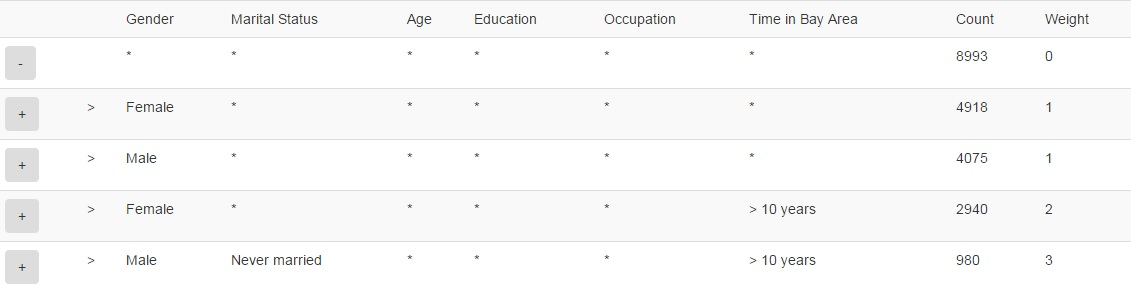
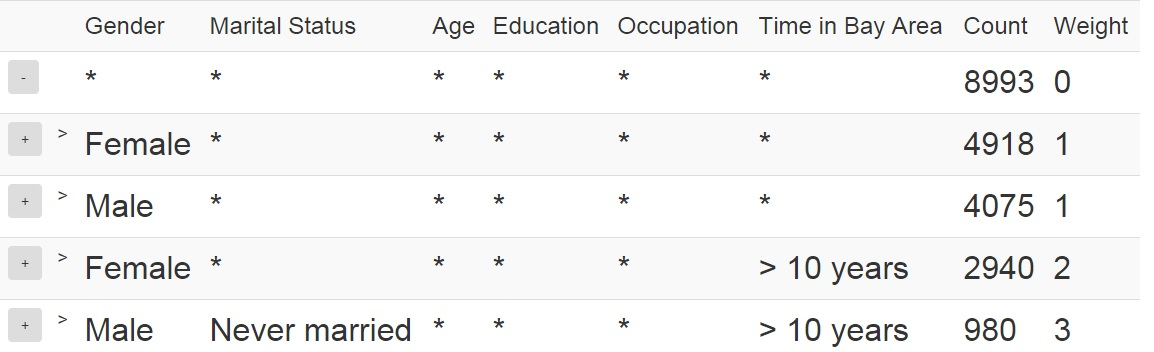
Changed image font size, and some other changes

diff --git a/TableSummarization/Paper/sampling.tex b/TableSummarization/Paper/sampling.tex
@@ -3,7 +3,7 @@
 \subsection{Dynamic Sampling for Large Tables}\label{sec:sampling}
 
 \papertext{
-BRS makes multiple passes over the table in order to determine the best set of rules to display. This can be really slow when the table is too large to fit in main memory. We can reduce the response time of smart drill down by running BRS on a sample of the table instead, trading off accuracy of our rules for performance. If we had obtained a sample $s$ by selecting each table tuple with probability $p$, and run BRS on $s$, then we multiply the count of each rule found by BRS, by $\frac{1}{p}$ to estimate its count over the full table.
+BRS makes multiple passes over the table in order to determine the best set of rules to display. This can be slow when the table is too large to fit in main memory. We can reduce the response time of smart drill down by running BRS on a sample of the table instead, trading off accuracy of our rules for performance. If we had obtained a sample $s$ by selecting each table tuple with probability $p$, and run BRS on $s$, then we multiply the count of each rule found by BRS, by $\frac{1}{p}$ to estimate its count over the full table.
 
 In Section~\ref{sec:sampling_algorithms}, we describe the problem of optimally allocating memory to different samples. We show that the problem is NP-Hard, and mention an approximate solution using an additional assumption. In Section~\ref{sec:sample-handler}, we describe a component of the system called the {\em SampleHandler}, which is responsible for creating and maintaining multiple samples of different parts of the table in memory, and creating temporary samples for BRS to process. Detailed descriptions of the sampling problem and the SampleHandler are in the technical report. The technical report also contains some additional optimizations, and ways to set the minimum sample size.
 
@@ -11,7 +11,7 @@ In Section~\ref{sec:sampling_algorithms}, we describe the problem of optimally a
 We are given a memory capacity $M$, and a minimum sample size $minSS$, both specified by the user. $minSS$ is the minimum number of tuples on which we are allowed to run BRS, without accessing the hard disk. A higher value of $minSS$ increases both accuracy and computation cost of our system.
 
 At any point, we have a tree $U$ of rules displayed to the user. Initially, the tree consists of a single node corresponding to the empty rule. When the user drills down on a rule $r$, the sub-rules of $r$ obtained by running BRS are added as children of node $r$. 
-Our system maintains multiple samples in memory, with upto one sample per rule in $U$. Specifically, for each rule $r \in U$, we choose an integer $n_r$, and create a sample $s_r$ consisting of $n_r$ uniformly randomly chosen tuples covered by $r$ from the table. Because of the memory constraint, we must have $\sum_{r\in U} n_r \leq M$. 
+Our system maintains multiple samples in memory, with one sample per rule in $U$. Specifically, for each rule $r \in U$, we choose an integer $n_r$, and create a sample $s_r$ consisting of $n_r$ uniformly randomly chosen tuples covered by $r$ from the table. Because of the memory constraint, we must have $\sum_{r\in U} n_r \leq M$. 
 
 When a user attempts to drill down on $r$, the SampleHandler takes all $n_r$ tuples from $s_r$, and also tuples covered by $r$ from samples $s_{r'}$ for all $r' \in U$ that are sub-rules of $r$. If the total number of such tuples is $\geq minSS$, then we run BRS on that set of tuples to perform the drill down. If not, then we need to access the hard disk to obtain more tuples covered by $r$.
 
@@ -229,7 +229,7 @@ Whenever the user drills down on a rule $r$, our system calls the SampleHandler 
 
 \item \textbf{Combine:} If \textbf{Find} doesn't work i.e., if the SampleHandler cannot find an existing sample with filter $r$ and $\geq minSS$ tuples, then it looks at all existing samples $s^{\prime}$ such that $f_{s^{\prime}}$ is a sub-rule of $r$. If the set of all tuples that are covered by $r$, from all such $T_{s^{\prime}}$'s combined, exceeds $minSS$ in size, then we can simply treat that set as our sample for rule $r$.
 
-\item \textbf{Create:} If \textbf{Combine} doesn't work either, then the SampleHandler needs to create a new sample $s$ with $f_s = r$ by making a pass through the table.  Since accessing the hard disk and making a pass through the entire table is a bottleneck, it also creates samples for rules other than $r$ and augments existing samples in the same pass. It first uses the algorithm from Section~\ref{sec:sampling_algorithms} to determine how many tuples to sample for each rule, and uses reservoir sampling~\cite{maibdr1983,Vitter:1985:RSR:3147.3165} to create a uniformly random sample of a given size for each rule.
+\item \textbf{Create:} If \textbf{Combine} doesn't work either, then the SampleHandler needs to create a new sample $s$ with $f_s = r$ by making a pass through the table.  Since accessing the hard disk is expensive, it also creates samples for rules other than $r$ and augments existing samples in the same pass. It first deletes all existing samples, then uses the algorithm from Section~\ref{sec:sampling_algorithms} to determine how many tuples to sample for each rule, and uses reservoir sampling~\cite{maibdr1983,Vitter:1985:RSR:3147.3165} to create a uniformly random sample of a given size for each rule.
 \squishend
 }
 

diff --git a/TableSummarization/Paper/exp.tex b/TableSummarization/Paper/exp.tex
@@ -16,6 +16,13 @@ We now describe our experiments on this system with real datasets.
 \begin{figure}
 \vspace{-5pt}
 \centering
+\includegraphics[width=90mm]{graphs/screenshots6col/age_drilldown.jpg}
+\caption{A regular drill down on Age\label{fig:drilldownexample}}
+\end{figure}
+
+\begin{figure}
+\vspace{-5pt}
+\centering
 \includegraphics[width=90mm]{graphs/screenshots6col/empty_expansion.jpg}
 \vspace{-10pt}
 \caption{Star expansion on `Education' Column \label{fig:uiexamplestar}}
@@ -99,15 +106,13 @@ Unless otherwise specified, in all our experiments, we restrict the tables to th
 We set the $k$ (number of rules) parameter to $4$, and $m_w$ to $5$ for the Size weighting and $20$ for the Bits weighting function (see Section~\ref{sec:weighting}). Memory capacity $M$ for the SampleHandler is set to $50000$ tuples, and $minSS$ to $5000$.
 
 \subsection{Qualitative Study}
-We first perform a qualitative study of smart drill down. We observe the effects of various user interface operations on the Marketing Dataset (the results are similar on the Census dataset), and then try out a few different weight functions to study their effects.
+We first perform a qualitative study of smart drill down. We observe the effects of various user interface operations on the Marketing Dataset (the results are similar on the Census dataset), and then try out different weight functions to study their effects.
 \subsubsection{User interface testing}
 We now present the rule-based summaries displayed as a result of a few different user actions.
 
 To begin with, the user sees an empty rule with the total number of tuples as the count. Suppose the user expands the rule. Then the user will see Figure~\ref{fig:uiexample1}. The first two new rules simply tell us that the table has $4918$ female and $4075$ male tuples. The next two rules also slightly more detailed, saying that there are $2940$ females who have been in the Bay Area for $> 10$ years, and $980$ males who have never been married and been in the Bay Area for $> 10$ years. Note that the latter two rules give very specific information which would require up to $3$ user clicks to find using traditional drill down, whereas smart drill down displays that information to the user with a single click. 
 
-Now suppose the user decides to further explore the table, by looking at education related information of females in the dataset. Say the user clicks on the $\star$ in the `Education' column of the second rule. This opens up Figure~\ref{fig:uiexamplestar} that shows the number of females with different levels of education, for the $4$ most frequent levels of education among females.
-
-Instead of expanding the `Education' column, if the user had simply expanded the third rule, it would have displayed Figure~\ref{fig:uiexamplerule}. 
+Now suppose the user decides to further explore the table, by looking at education related information of females in the dataset. Say the user clicks on the $\star$ in the `Education' column of the second rule. This opens up Figure~\ref{fig:uiexamplestar} that shows the number of females with different levels of education, for the $4$ most frequent levels of education among females. Instead of expanding the `Education' column, if the user had simply expanded the third rule, it would have displayed Figure~\ref{fig:uiexamplerule}. 
 
 \vspace{-3pt}
 \subsubsection{Weighting functions}
@@ -119,6 +124,8 @@ $$W(r) = \sum_{c \in C : r(c) \neq \star} \lceil \text{log}_2(|c|) \rceil$$ wher
 The other weighting function we try is given by:
 $$W(r) = \text{Min}(0, \text{Size}(r) - 1)$$
 This gives us Figure~\ref{fig:weightingsizeminusone}. This weighting gives a $0$ weight to rules with a single non-$\star$ value, and thus forces the algorithm to finds good rules having at least $2$ non-$\star$ values. As a result, we can see that our system only displays rules having $2$ or $3$ non-$\star$ values, unlike Figure~\ref{fig:uiexample1} which has two rules displaying the total number of males and females, that have size $1$.
+
+A regular drill down can be thought of as a special case of smart drill-down with the right weighting function and number of rules. We use this to perform a drill down on the `Age' column using our experimental prototype. The result is shown in Figure~\ref{fig:drilldownexample}. We can contrast it with Figure~\ref{fig:uiexample1}; the latter gives information about multiple columns at once and only displays high count values. Regular drill down on the other hand, serves a complementary purpose by focusing on detailed evaluation of a single column.
 
 %TODO: Give application examples for different weighting functions
 %TODO: Say somewhere, that we haev drop-down list of common weighting functions in the user interface, with column selects and unselects.

diff --git a/TableSummarization/Paper/TableSummarization.tex b/TableSummarization/Paper/TableSummarization.tex
@@ -110,7 +110,7 @@ explore that part of the table.
 We demonstrate that the underlying optimization problems 
 are {\sc NP-Hard}, and describe an
 algorithm for finding the approximately optimal list of rules to display when the user uses a smart drill-down, and a dynamic sampling scheme for efficiently interacting with large tables. Finally, we
-perform experiments on real datasets to demonstrate the usefulness of smart drill-down and study the performance of our algorithms.
+perform experiments on real datasets on our experimental prototype to demonstrate the usefulness of smart drill-down and study the performance of our algorithms.
 \end{abstract}
 
 \input{intro}

diff --git a/TableSummarization/Paper/conc.tex b/TableSummarization/Paper/conc.tex
@@ -13,7 +13,7 @@ to display, as well as a scheme for performing such selections
 based on data samples. Working with samples makes smart drill down
 relatively insensitive to the size of the table.
 
-Our experimental results show that smart drill down
+Our experimental results on our experimental prototype show that smart drill down
 is fast enough to be interactive under various
 realistic scenarios. We also showed that the accuracy is high
 when sampling is used, and when the maximum weight ($m_w$)
